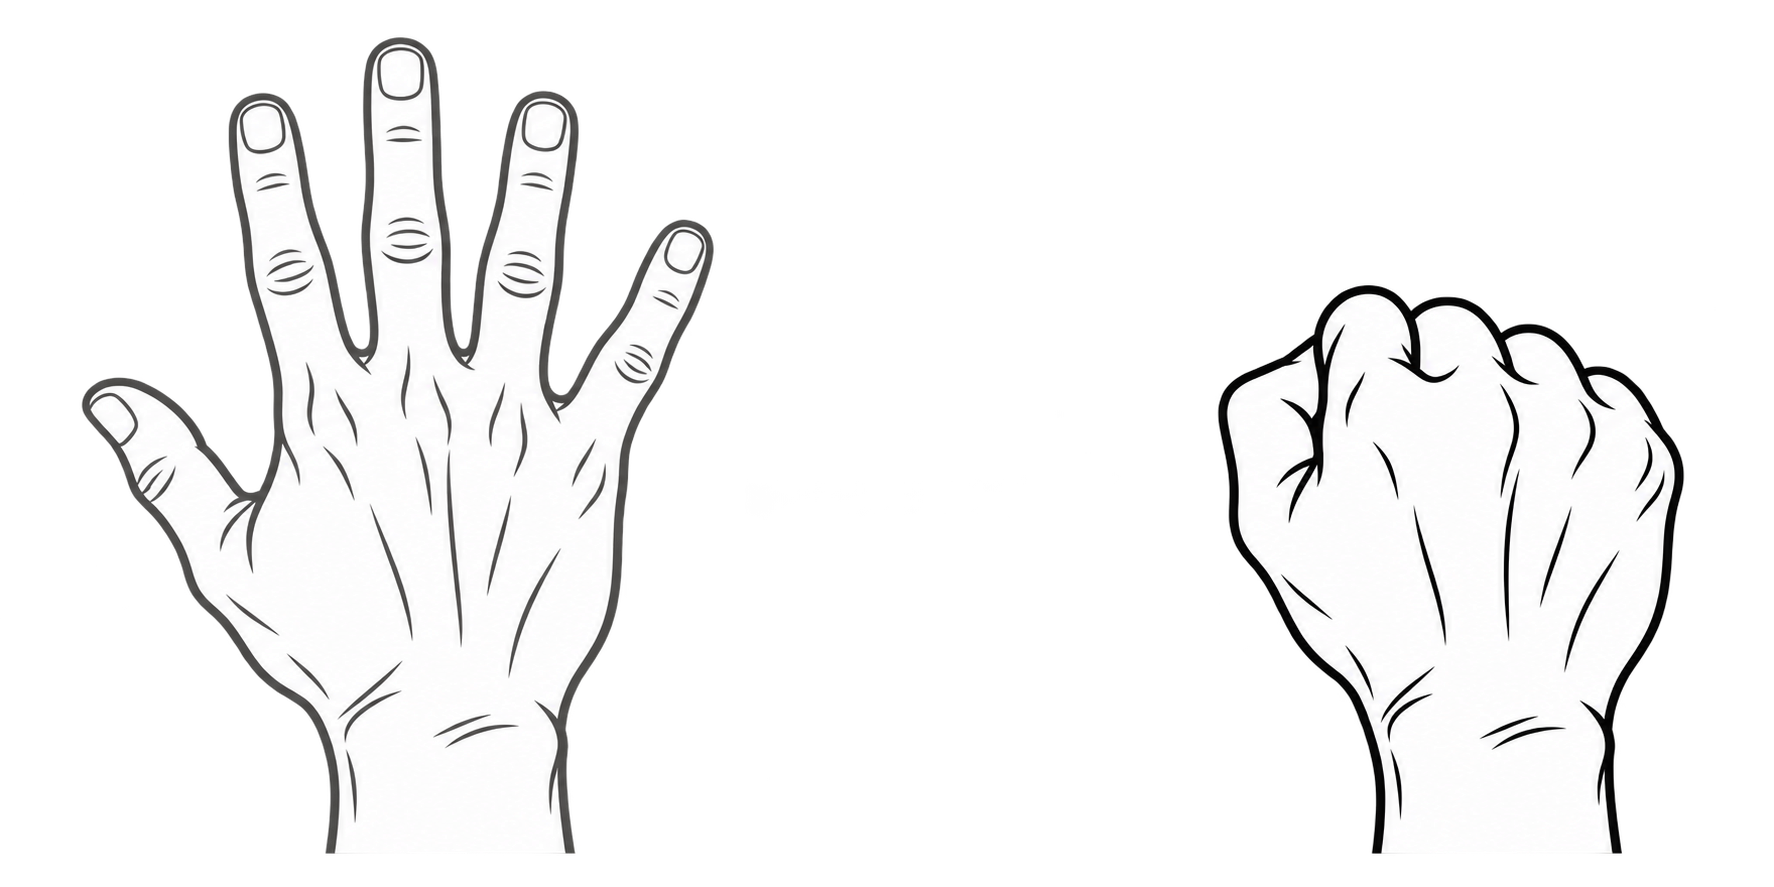
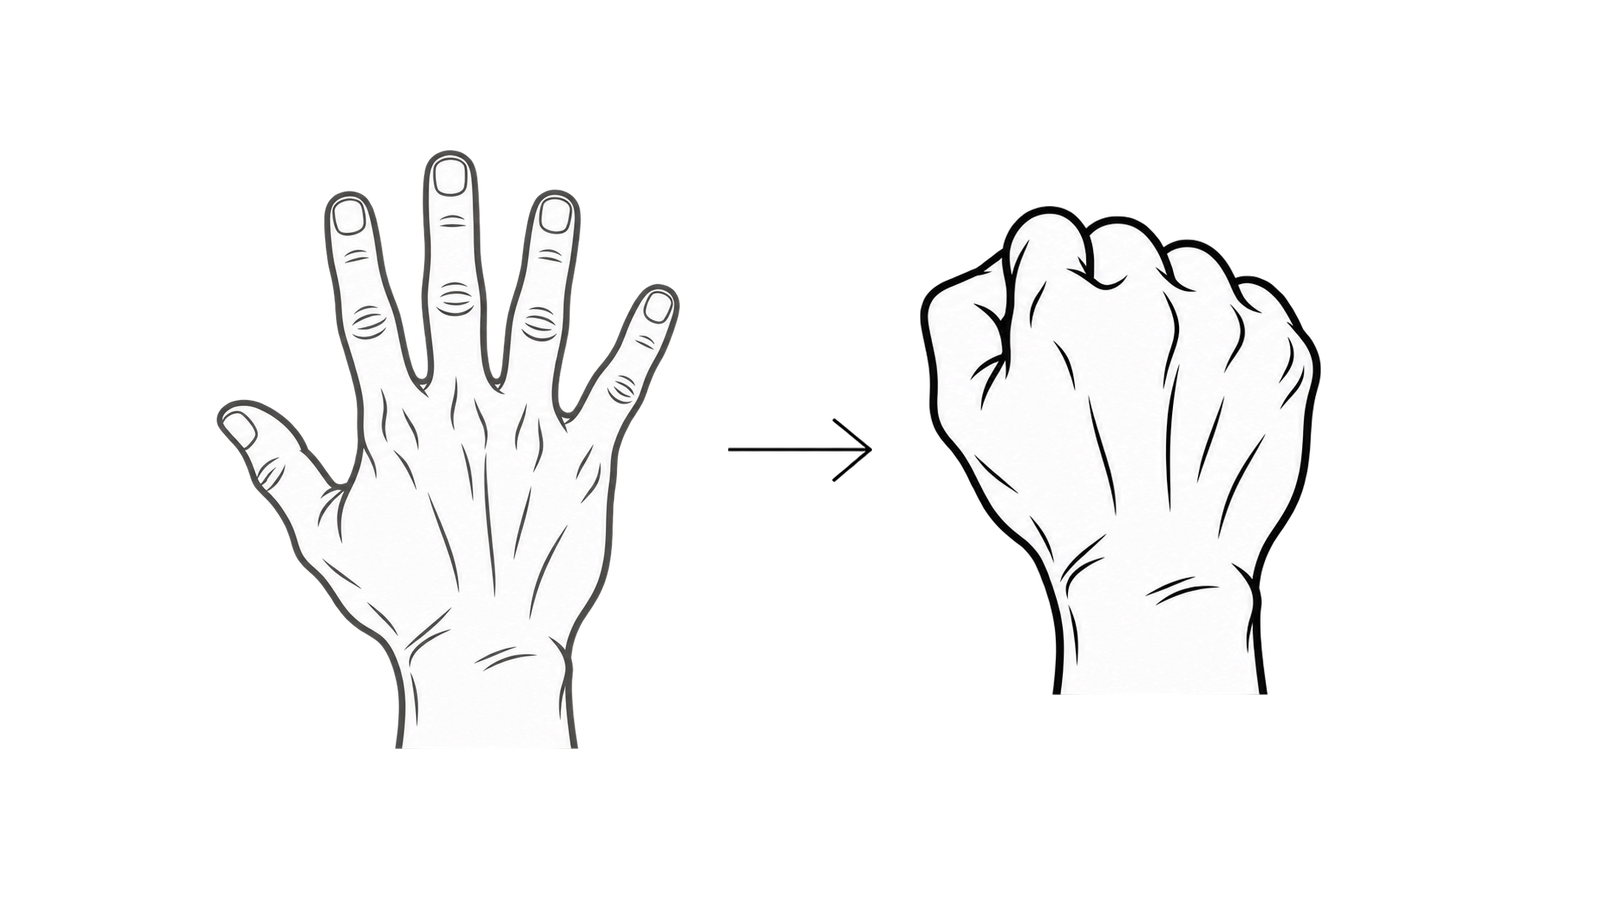
Balance static gesture pairs and add centered progression arrows

diff --git a/README.md b/README.md
@@ -11,7 +11,7 @@
 
 指令與現用圖片編號統一依序為：開啟、關閉、上一步、下一步、放大、縮小、確認、重播、截圖。
 
-下表直接引用兩組的同名 PNG；圖片更新後，這裡同步顯示新版。雙姿態動態圖以左側灰線為起始姿態、右側黑線為結束姿態，兩姿態分開呈現；重播以單一右手搭配順時針箭頭表示。
+下表直接引用兩組的同名 PNG；圖片更新後，這裡同步顯示新版。雙姿態靜態圖以左側灰線為起始姿態、右側黑線為結束姿態，中央向右箭頭表示前後順序；重播以單一右手搭配順時針箭頭表示。
 
 | 編號 | 指令／檔名 | 本國組 | 非本國組 |
 |---|---|---|---|
@@ -35,9 +35,15 @@
 
 依研究者提供的原九宮格（本國組）、黃色表格（非本國組）與 [HackMD 實拍](https://hackmd.io/vlS1KejZR96oRrO-DFbUiA) 核對。統一使用本人看自己右手的第一人稱視角，逐張核對掌背面與拇指位置。
 
-`realistic` 為解剖線稿風格，以研究者重附的五張產圖為風格基準，補圖使用 OpenAI imagegen。左側灰線表示起始姿態、右側黑線表示結束姿態，動態圖在同一畫布左右分開，左灰表示先比的姿態、右黑表示後比的姿態；不使用表示前後順序的向右箭頭；重播依研究者實拍右手呈現單一姿態，手腕帶動整手旋轉，使用同一透視橢圓上的兩段順時針弧箭頭，保留兩處缺口，黑線描白邊；開放式尖端與弧線相連，不使用實心三角形。PNG 具有透明外背景與白色手部內底。原 SVG 與舊 PNG 已移至各組的 `archive/` 存檔，暫不維護，保留供追溯，README 預覽引用新版本。
+`realistic` 為解剖線稿風格，以研究者重附的五張產圖為風格基準，補圖使用 OpenAI imagegen。左側灰線表示起始姿態、右側黑線表示結束姿態，雙姿態靜態圖在同一畫布左右分開，左灰表示先比的姿態、右黑表示後比的姿態，中央向右箭頭表示動作順序；重播依研究者實拍右手呈現單一姿態，手腕帶動整手旋轉，使用同一透視橢圓上的兩段順時針弧箭頭，保留兩處缺口，黑線描白邊；開放式尖端與弧線相連，不使用實心三角形。PNG 具有透明外背景與白色手部內底。原 SVG 與舊 PNG 已移至各組的 `archive/` 存檔，暫不維護，保留供追溯，README 預覽引用新版本。
 
 解剖線稿 PNG 位於 `domestic/realistic/` 與 `international/realistic/`。舊版各組 `png/` 已移至各組的 `archive/`。
+
+## 雙姿態靜態圖排版
+
+兩組的放大、縮小及截圖共六張 PNG，與 HoloLens Bloom，統一使用 1600 × 900 畫布。左右各保留相同的 600 × 740 配置區域，手勢維持原比例，以可見手部面積平衡兩側份量；兩姿態的內緣固定相隔 240 px，中央放置同一款 144 × 64 向右箭頭，並保留左右間距。保留原手勢線稿、灰色起始／黑色結束的順序，以及各圖原有背景形式。
+
+平台圖中的雙手縮放表示左右手同時操作，保留原中央雙向箭頭。
 
 ## GIF 動態試作
 

diff --git a/reference/README.md b/reference/README.md
@@ -8,7 +8,9 @@
 | 表 2-2 | Meta Quest | [meta-quest/realistic/](meta-quest/realistic/) |
 | 表 2-3 | Apple Vision Pro | [apple-vision-pro/realistic/](apple-vision-pro/realistic/) |
 
-圖示為研究者依官方互動說明，以 OpenAI imagegen 製作的黑白解剖線稿，與 Word 表格使用的圖片相同。共 15 個按品牌與指令命名的檔案，使用七張原始圖稿；共用圖稿仍依各平台的指令分別命名，搭配文字表示觸發時序。PNG 原始尺寸與白色背景保留。
+圖示為研究者依官方互動說明，以 OpenAI imagegen 製作的黑白解剖線稿，圖稿來源與 Word 表格相同。共 15 個按品牌與指令命名的檔案，使用七張原始圖稿；共用圖稿仍依各平台的指令分別命名，搭配文字表示觸發時序。PNG 保留白色背景；HoloLens Bloom 已依雙姿態排版規則調整為 1600 × 900，其餘圖片保留原始尺寸。
+
+Bloom 的前後姿態使用等大配置區域、相近可見手部面積及固定中央間隔，並新增向右箭頭。雙手縮放圖保留中央雙向箭頭，表示左右手同時移動。
 
 ## 表 2-1 Microsoft HoloLens
 
